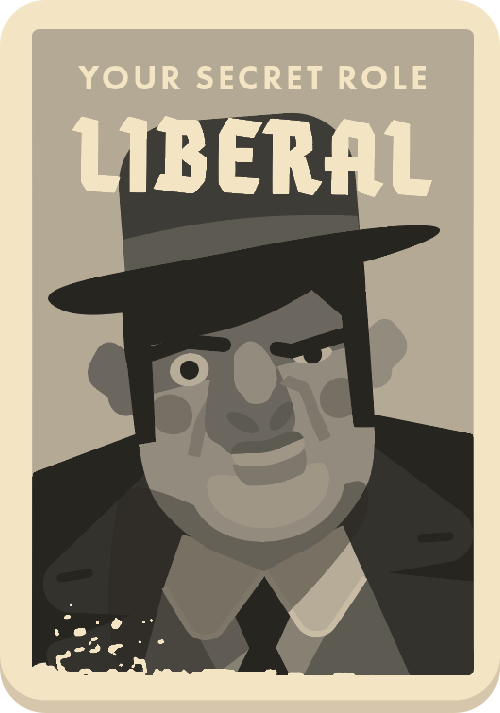
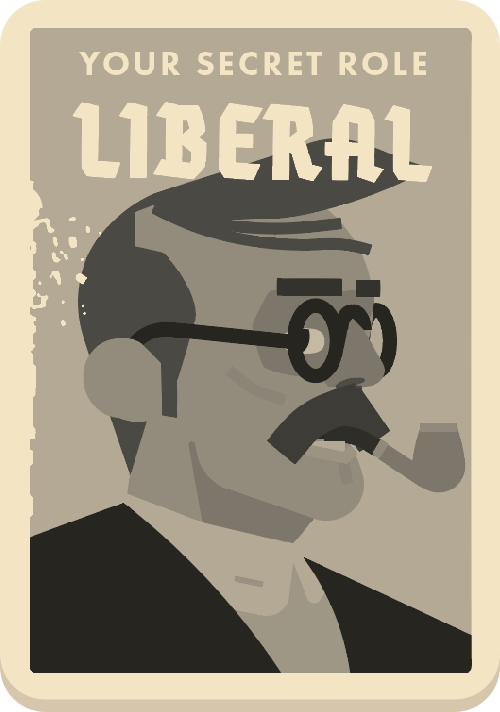
Created new JS class CustomAlert.js to handle showing alert boxes for players. Implemented the initial Role Alert that shows players their role and objectives.

diff --git a/secret-hitler-online-interface/src/RoleAlert.js b/secret-hitler-online-interface/src/RoleAlert.js
@@ -1,0 +1,124 @@
+import React, {Component} from 'react';
+import RoleHitler from "./assets/role-hitler.png";
+import RoleLiberal1 from "./assets/role-liberal-1.png"
+import RoleLiberal2 from "./assets/role-liberal-2.png"
+import RoleLiberal3 from "./assets/role-liberal-3.png"
+import RoleLiberal4 from "./assets/role-liberal-4.png"
+import RoleLiberal5 from "./assets/role-liberal-5.png"
+import RoleLiberal6 from "./assets/role-liberal-6.png"
+import RoleFascist1 from "./assets/role-fascist-1.png"
+import RoleFascist2 from "./assets/role-fascist-2.png"
+import RoleFascist3 from "./assets/role-fascist-2.png"
+
+const LIBERAL = "LIBERAL";
+const HITLER = "HITLER";
+const FASCIST = "FASCIST";
+
+const LiberalImages = [RoleLiberal1, RoleLiberal2, RoleLiberal3, RoleLiberal4, RoleLiberal5, RoleLiberal6];
+const LiberalImagesAltText = [  "Your secret role is LIBERAL. The card shows a bespectacled man with a pipe giving a side-eye.",
+                                "Your secret role is LIBERAL. The card shows an elegant woman with curly hair and pearls.",
+                                "Your secret role is LIBERAL. The card shows a round-chinned man in a pilgrim-esque hat gazing quizzically at the camera.",
+                                "Your secret role is LIBERAL. The card shows a sharp-suited man sporting a fedora and a neatly-trimmed mustache.",
+                                "Your secret role is LIBERAL. The card shows an elderly woman with comically large glasses holding a chihuahua.",
+                                "Your secret role is LIBERAL. The card shows a woman with a large sun hat and shoulder-length bob smirking."];
+const HitlerImages = [RoleHitler];
+const HitlerImagesAltText = ["Your secret role is HITLER. The card shows a crocodile in a suit and WW2 German military hat glaring at the camera."];
+const FascistImages = [RoleFascist1, RoleFascist2, RoleFascist3];
+const FascistImagesAltText = [  "Your secret role is FASCIST. The card shows a snake emerging from a suit covered in military medals.",
+                                "Your secret role is FASCIST. The card shows an iguana in a German military hat and suit with fangs bared.",
+                                "Your secret role is FASCIST. The card shows an iguana in a German military hat and suit with fangs bared.",];
+
+const LiberalText = ["You win if the board fills with liberal policies, or if Hitler is executed.",
+                     "You lose if the board fills with fascist policies, or if Hitler is elected chancellor after 3 fascist policies are passed.",
+                     "Keep your eyes open and look for suspicious actions. Suss out Hitler, and remember that anyone might be lying!"];
+const FascistText = ["You win if Hitler is successfully elected chancellor once 3 fascist policies are on the board, or if the board fills with fascist policies.",
+    "You lose if the board fills with liberal policies or if Hitler is executed.",
+    "Keep suspicion off of Hitler and look for ways to throw confusion into the game."];
+const HitlerText = ["You win if you are successfully elected chancellor once 3 fascist policies are on the board, or if the board fills with fascist policies.",
+    "You lose if the board fills with liberal policies or if you are executed.",
+    "Try to gain trust and rely on the other fascists to open opportunities for you."];
+
+/**
+ * CustomAlert content that shows the player's current role and a quick guide on how to play
+ * the game.
+ * Parameters:
+ *      - {@code role} [String]: The role of the player. Should be either LIBERAL, FASCIST, or HITLER.
+ *      - {@code roleID} [int]: The integer roleID of the player. This is used to show unique role cards.
+ *          The roleID can range from [1, 6] for LIBERALS, [1, 3] for FASCISTS, and [1] for HITLER. If out of bounds,
+ *          the value is set to 1 (default).
+ *      - {@code onClick} [()]: The callback function for when confirmation button ("OKAY") is pressed.
+ */
+class RoleAlert extends Component {
+
+    getRoleImage() {
+        let imageArray = HitlerImages;
+        switch (this.props.role) {
+            case "LIBERAL":
+                imageArray = LiberalImages;
+                break;
+            case "FASCIST":
+                imageArray = FascistImages;
+        }
+        if (this.props.roleID >= imageArray.length || this.props.roleID < 0) {
+            return imageArray[0];
+        }
+        return imageArray[this.props.roleID];
+    }
+
+    /**
+     * Gets the value at an index of an array, defaulting if the value is too large or small.
+     * @param array the array to get data from.
+     * @param index the index of the data in the array.
+     * @return if 0 < index < array.length, returns array[index].
+     *         Otherwise, returns array[0].
+     */
+    getIndexWithDefault(array, index) {
+        if (index >= array.length || index < 0) {
+            return array[0];
+        } else {
+            return array[index];
+        }
+    }
+
+    getRoleImageAltText() {
+        switch (this.props.role) {
+            case LIBERAL:
+                return this.getIndexWithDefault(LiberalImagesAltText, this.props.roleID);
+            case FASCIST:
+                return this.getIndexWithDefault(FascistImagesAltText, this.props.roleID);
+            case HITLER:
+                return this.getIndexWithDefault(HitlerImagesAltText, this.props.roleID);
+        }
+    }
+
+    render() {
+        let roleText = HitlerText;
+        if (this.props.role === FASCIST) {
+            roleText = FascistText;
+        } else if (this.props.role === LIBERAL) {
+            roleText = LiberalText;
+        }
+        return (
+            <div>
+                <h2 id="alert-header">YOU ARE: {this.props.role}</h2>
+                <div style={{display:"flex", flexDirection:"row"}}>
+                <img id="role" src={this.getRoleImage()} alt={this.getRoleImageAltText()}/>
+                <div className="textbox">
+                    <p>{roleText[0]}</p>
+                    <p>{roleText[1]}</p>
+                    <p className="highlight">{roleText[2]}</p>
+                </div>
+                </div>
+                <p>You can review this later by clicking Your Role below.</p>
+                <button onClick={this.props.onClick}>OKAY</button>
+            </div>
+        );
+    }
+}
+
+RoleAlert.defaultProps = {
+    role: "HITLER",
+    roleID: 0
+};
+
+export default RoleAlert;

diff --git a/secret-hitler-online-interface/src/App.css b/secret-hitler-online-interface/src/App.css
@@ -60,6 +60,13 @@ p {
     color: var(--textColorOnDark);
 }
 
+.highlight {
+    font-family: var(--textFont);
+    font-weight: normal;
+    font-size: calc(4px + 2vmin);
+    color: var(--textColorHighlight);
+}
+
 /* Credit to https://designtheway.com/css-buttons/ for the CSS source code.*/
 button {
     background:transparent;
@@ -227,14 +234,15 @@ textarea {
     100% {left: -100%; opacity: 0; visibility: hidden}
 }
 
-#overlay {
+#alert {
     position: absolute;
     width: 100%;
     height: 93vh;
     align-items: center;
+    display: flex;
 }
 
-#overlay-background {
+#alert-background {
     position: absolute;
     width: 100%;
     height: 100%;
@@ -244,13 +252,32 @@ textarea {
     opacity:var(--alertOverlayOpacity);
 }
 
-#overlay-box {
+#alert-box {
     position: relative;
     z-index: 60;
     opacity: 1;
     width: 80vmin;
-    height: 60vmin;
+    min-height: 60vmin;
     margin: auto auto;
-    padding:10px;
+    padding: 20px;
     background-color: var(--alertFill);
+    text-align: center;
+}
+
+#alert-header {
+    text-align: left;
+    margin: 10px;
+}
+
+#role {
+    width: 25vmin;
+    height: auto;
+    display: inline;
+    align-self: center;
+    margin: 10px;
+}
+
+.textbox {
+    text-align: left;
+    margin: 10px;
 }

diff --git a/secret-hitler-online-interface/src/App.js b/secret-hitler-online-interface/src/App.js
@@ -9,8 +9,12 @@ import LiberalBoard from "./assets/board-liberal.png";
 import FascistBoard56 from "./assets/board-fascist-5-6.png";
 import ElectionTracker from "./assets/board-tracker.png";
 
+import RoleHitler from "./assets/role-hitler.png";
+
 import DrawDeck from "./assets/board-draw.png";
 import DiscardDeck from "./assets/board-discard.png";
+import CustomAlert from "./CustomAlert";
+import RoleAlert from "./RoleAlert";
 
 
 const PAGE = {
@@ -512,13 +516,9 @@ class App extends Component {
                     SECRET HITLER ONLINE
                 </header>
 
-                <div id="overlay">
-                    <div id="overlay-background"/>
-                    <div id="overlay-box">
-                        <h2>YOU ARE:</h2>
-                        <button>Okay</button>
-                    </div>
-                </div>
+                <CustomAlert>
+                    <RoleAlert role={"HITLER"} roleID={3}/>
+                </CustomAlert>
 
                 <div style={{display:"inline-block"}}>
                     <div id={"Board Layout"} style={{alignItems:"center", display:"flex", flexDirection:"row", margin:"0 auto"}}>

diff --git a/secret-hitler-online-interface/public/index.html b/secret-hitler-online-interface/public/index.html
@@ -6,8 +6,8 @@
     <meta name="viewport" content="width=device-width, initial-scale=1" />
     <meta name="theme-color" content="#000000" />
     <meta
-      name="description"
-      content="Web site created using create-react-app"
+      name="Secret Hitler Online"
+      content="An online version of Secret Hitler, a social deduction game."
     />
     <link rel="apple-touch-icon" href="%PUBLIC_URL%/logo192.png" />
     <!--
@@ -24,7 +24,7 @@
       work correctly both with client-side routing and a non-root public URL.
       Learn how to configure a non-root public URL by running `npm run build`.
     -->
-    <title>React App</title>
+    <title>Secret Hitler Online</title>
   </head>
   <body>
     <noscript>You need to enable JavaScript to run this app.</noscript>

diff --git a/secret-hitler-online-interface/src/CustomAlert.js b/secret-hitler-online-interface/src/CustomAlert.js
@@ -1,0 +1,32 @@
+import React, {Component} from 'react';
+import RoleHitler from "./assets/role-hitler.png";
+
+class CustomAlert extends Component {
+
+    constructor(props) {
+        super(props);
+        this.setState({
+            lastValueShow: false
+        })
+    }
+
+    /**
+     * If the value of {@code this.props.show} changes, changes the className from
+     */
+    getClassName() {
+
+    }
+
+    render() {
+        return (
+            <div id="alert" className={this.props.show}>
+                <div id="alert-background"/>
+                <div id="alert-box">
+                    {this.props.children}
+                </div>
+            </div>
+        );
+    }
+}
+
+export default CustomAlert;
